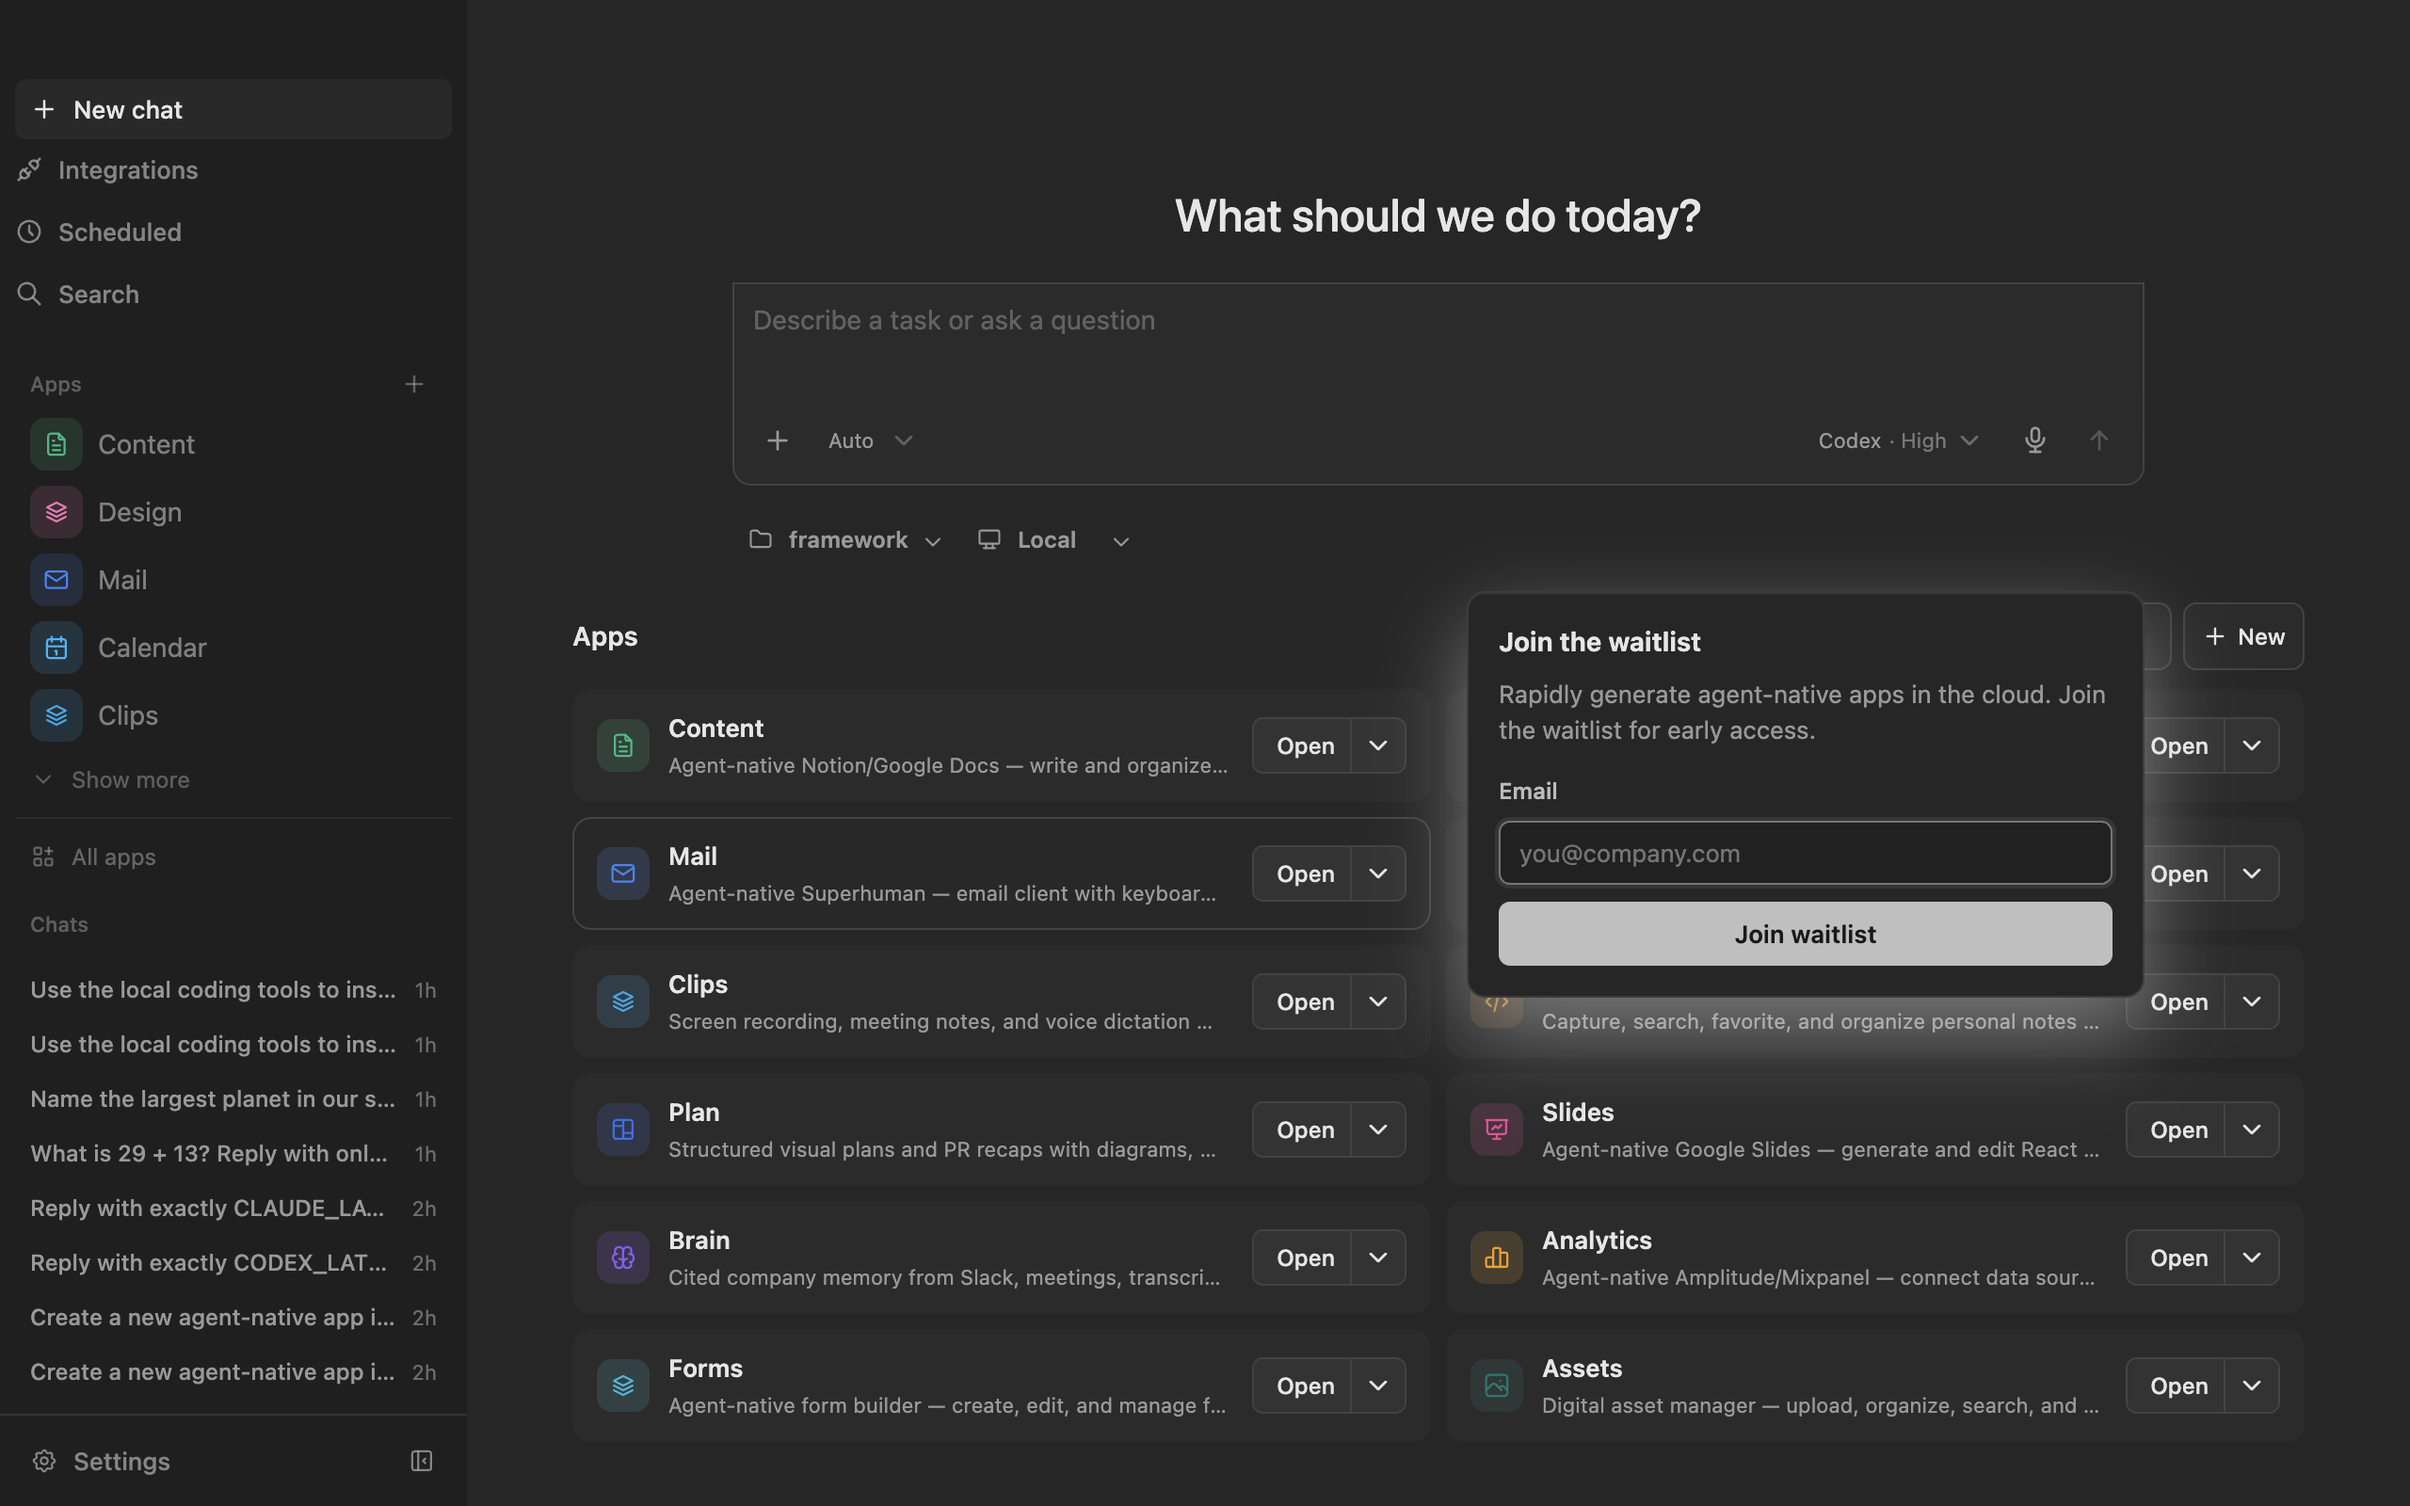
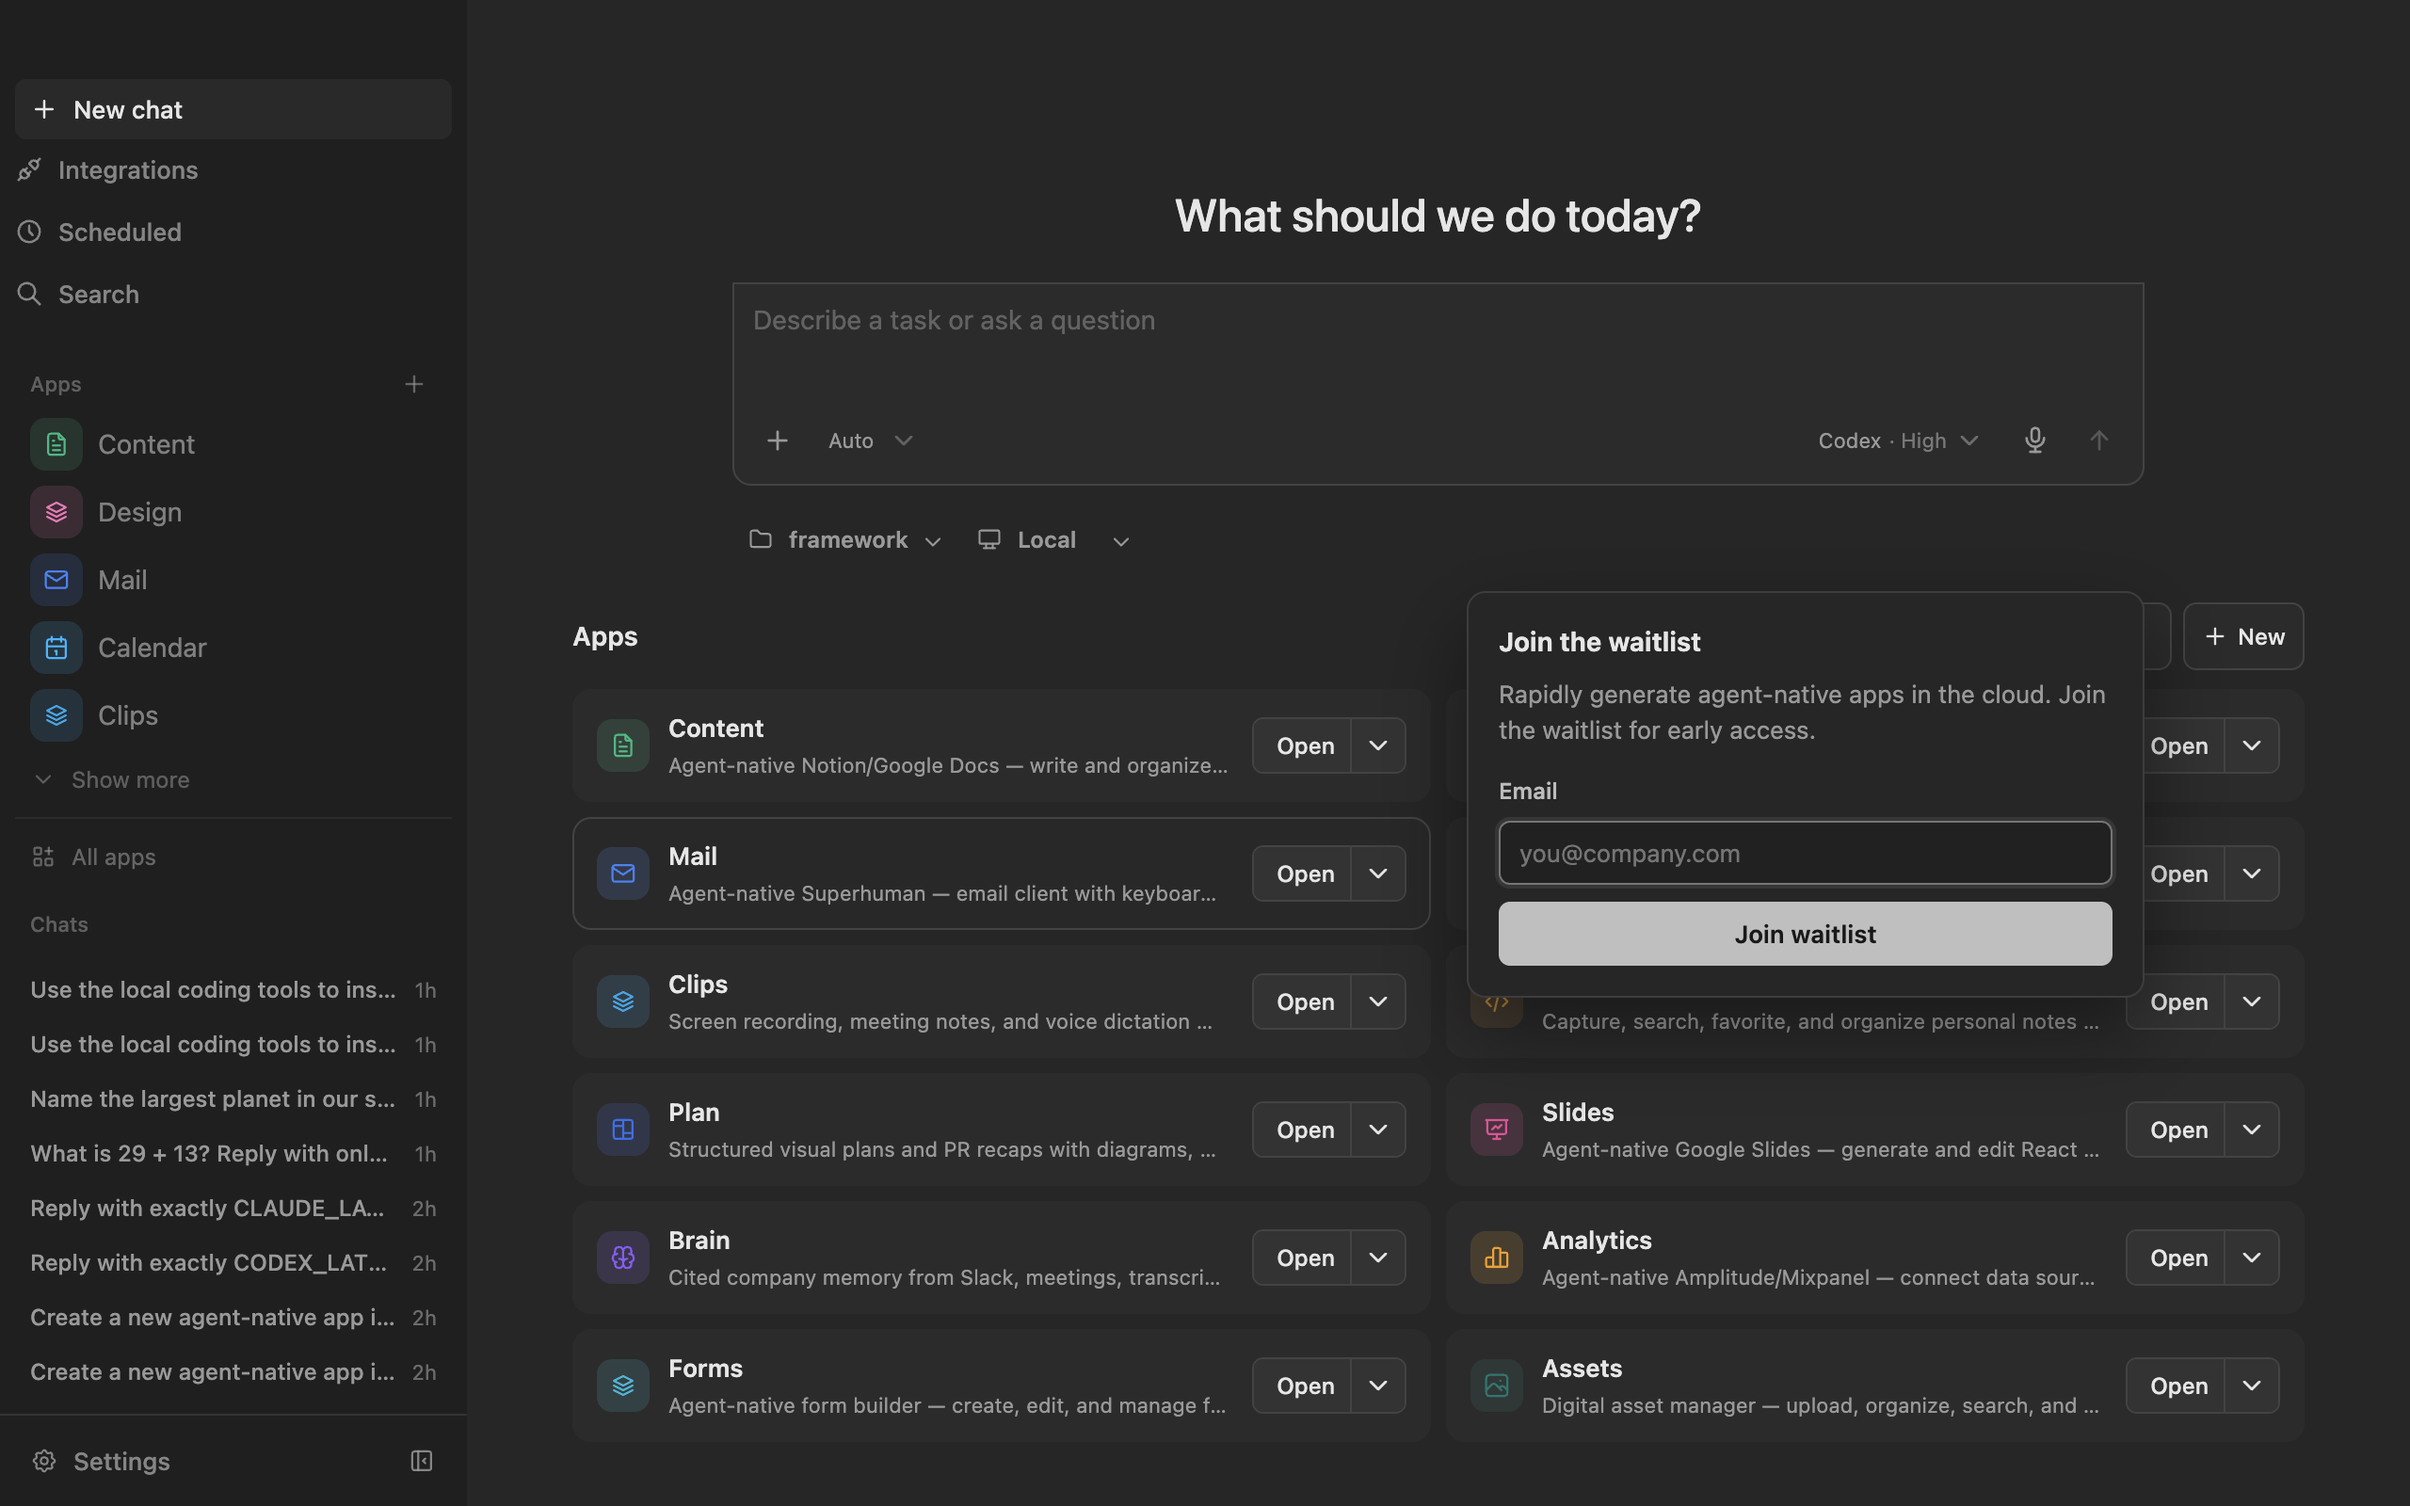
chore: publish branch work in .screenshots/code-agents-chat-first-latest-dark-remote-waitlist-dark-shadow.png, .screenshots/code-agents-chat-first-latest-dark-workspace-menu-local-description.png, packages/code-agents-ui (4 files)

Changed region(s): [[0.5938, 0.4062, 0.9062, 0.7188]]

diff --git a/packages/code-agents-ui/src/styles.css b/packages/code-agents-ui/src/styles.css
@@ -37,6 +37,7 @@
   --sidebar-border: 0 0% 93%;
   --ease: 120ms cubic-bezier(0.16, 1, 0.3, 1);
   --code-agents-chat-max: 750px;
+  --code-agents-dark-shadow: 0 0% 0%;
   --code-agents-rail-gutter: 8px;
   --code-agents-rail-row-inset: 8px;
   --code-agents-rail-icon-size: 15px;
@@ -400,23 +401,18 @@
 }
 
 .dark .code-agents-popover-content {
-  box-shadow:
-    0 18px 44px hsl(var(--foreground, 0 0% 90%) / 0.42),
-    inset 0 1px 0 hsl(var(--foreground, 0 0% 90%) / 0.04);
+  box-shadow: 0 18px 44px hsl(var(--code-agents-dark-shadow, 0 0% 0%) / 0.42);
 }
 
 @media (prefers-color-scheme: dark) {
   :root:not(.light) .code-agents-popover-content {
-    box-shadow:
-      0 18px 44px hsl(var(--foreground, 0 0% 90%) / 0.42),
-      inset 0 1px 0 hsl(var(--foreground, 0 0% 90%) / 0.04);
+    box-shadow: 0 18px 44px hsl(var(--code-agents-dark-shadow, 0 0% 0%) / 0.42);
   }
 }
 
 .code-agents-remote-waitlist-content {
   width: min(calc(100vw - 32px), 360px);
   padding: 16px;
-  box-shadow: 0 18px 44px hsl(0 0% 0% / 0.42);
 }
 
 .code-agents-remote-waitlist {

diff --git a/packages/code-agents-ui/src/CodeAgentsApp.spec.ts b/packages/code-agents-ui/src/CodeAgentsApp.spec.ts
@@ -123,7 +123,10 @@ describe("CodeAgentsApp project folder picker", () => {
       source.indexOf('aria-label="Select workspace"'),
     );
     expect(css).toContain("margin-top: 8px;");
-    expect(css).toContain("box-shadow: 0 18px 44px hsl(0 0% 0% / 0.42);");
+    expect(css).toContain(
+      ".dark .code-agents-popover-content {\n  box-shadow: 0 18px 44px hsl(var(--code-agents-dark-shadow, 0 0% 0%) / 0.42);",
+    );
+    expect(css).not.toContain("hsl(var(--foreground, 0 0% 90%) / 0.42)");
   });
 });
 
